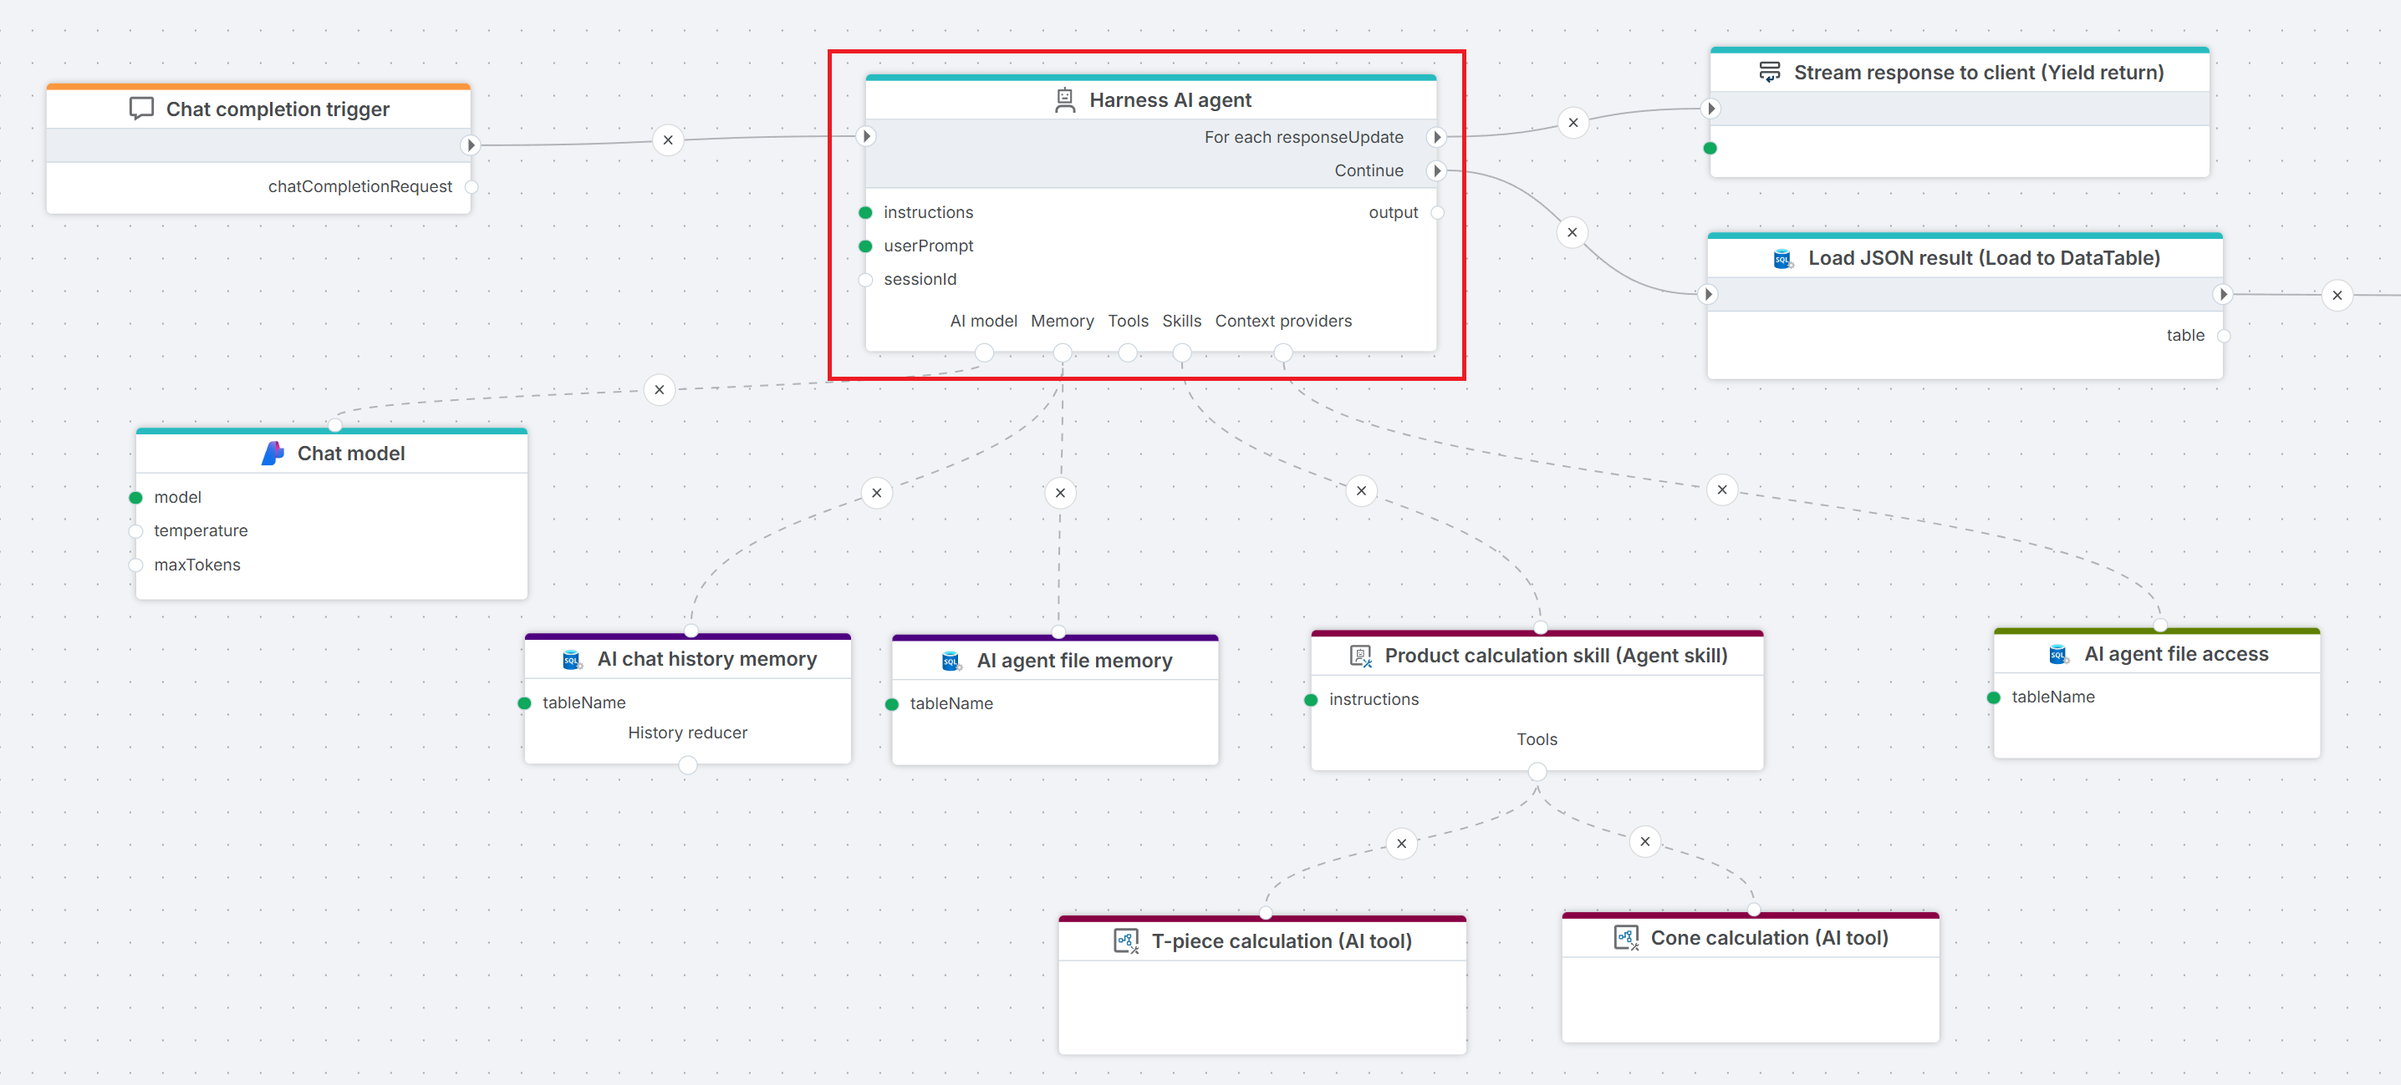
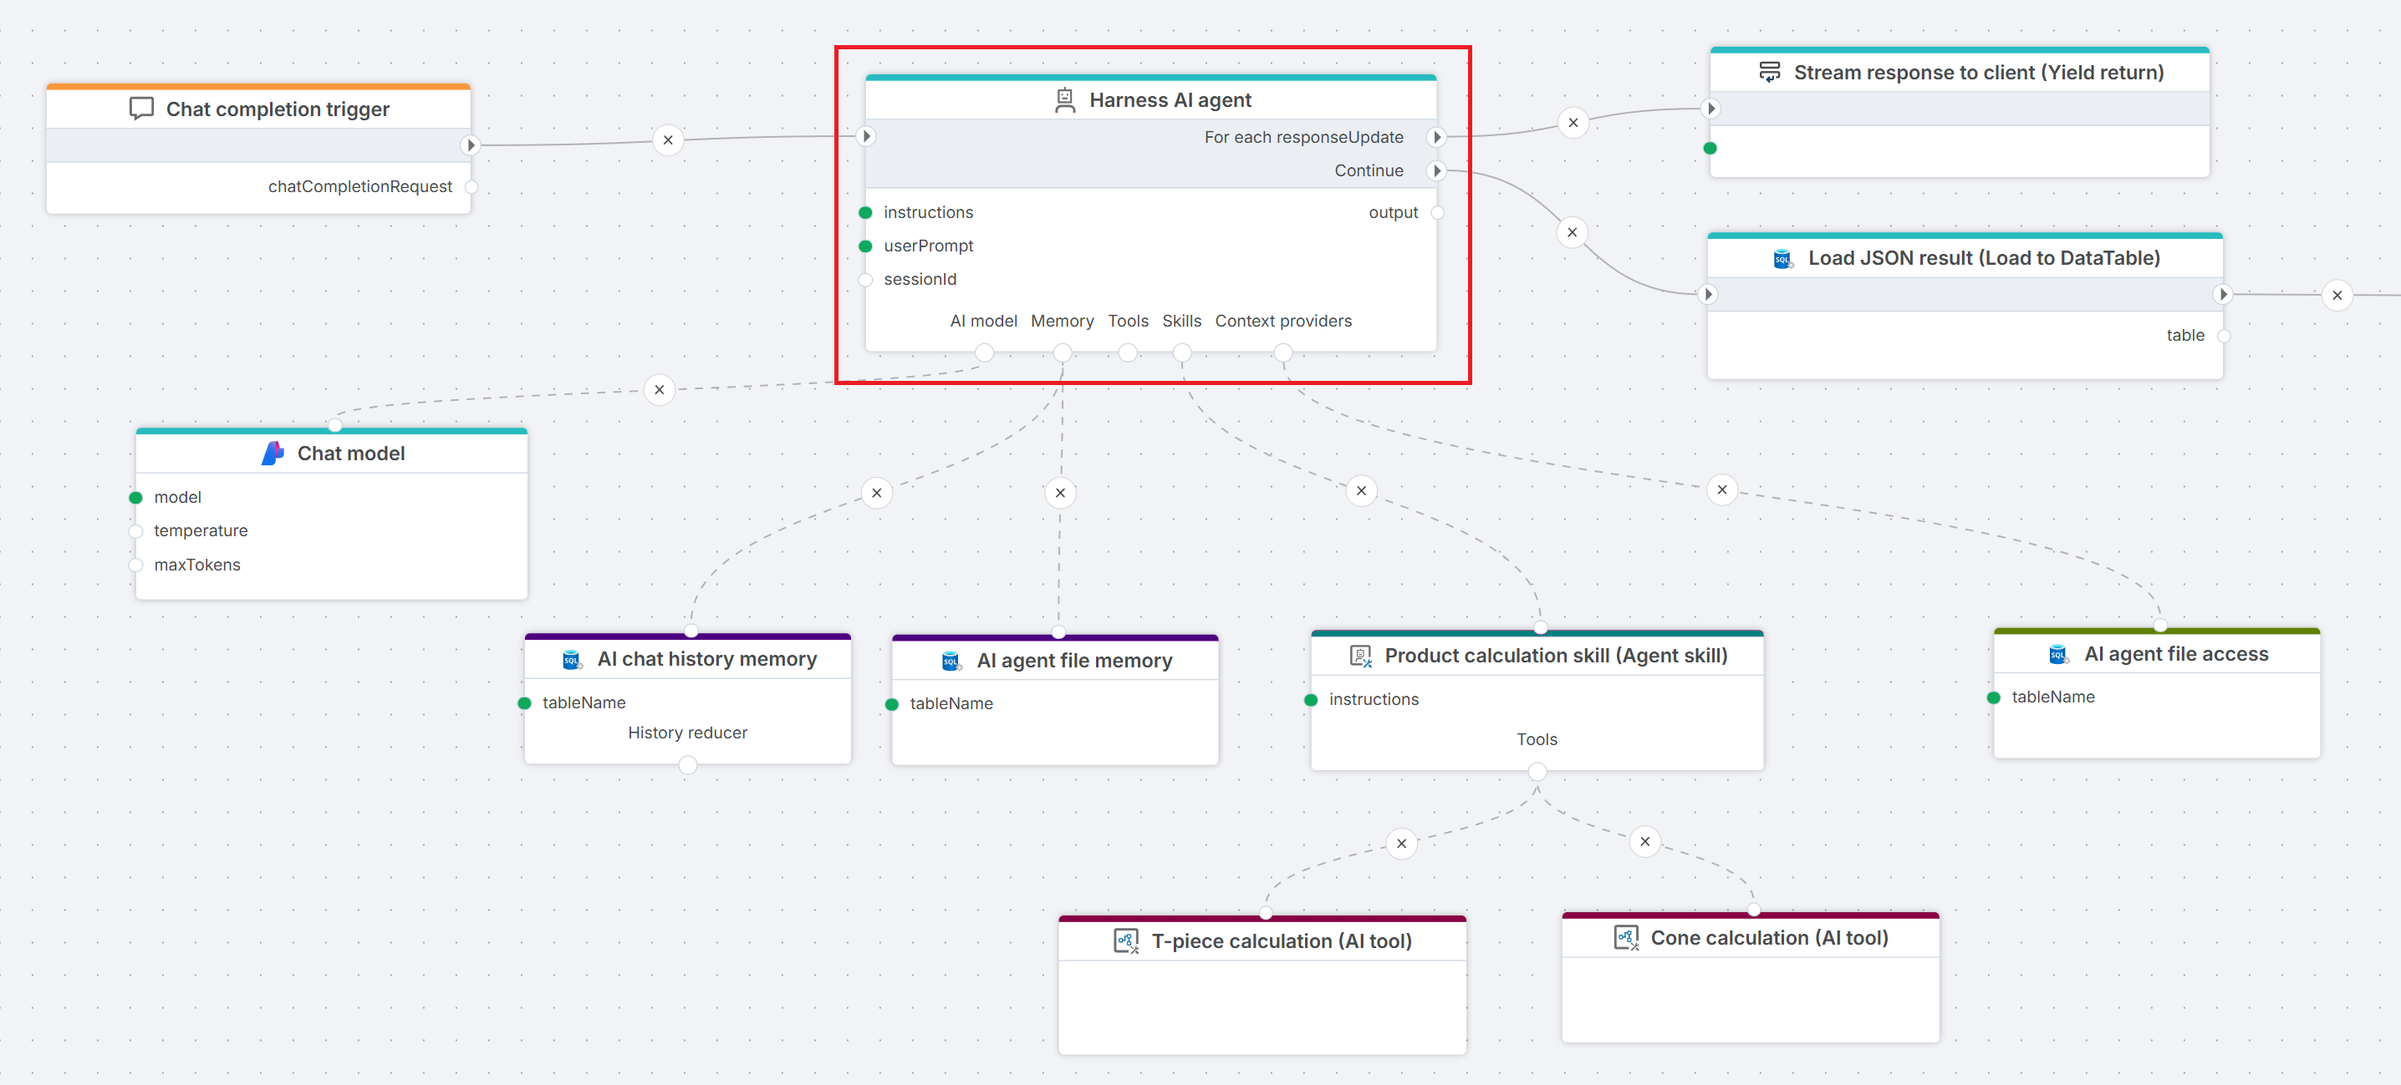
docs completed for harness agent

Changed region(s): [[0.3409, 0.0308, 0.6198, 0.3695], [0.5578, 0.5543, 0.7127, 0.5851]]

diff --git a/articles/flow/actions/agents/ai-agent-skill.md b/articles/flow/actions/agents/ai-agent-skill.md
@@ -1,5 +1,168 @@
 # AI agent skill
 
-Specifies an AI agent skill that teaches AI agents (like the  [Harness AI agent](../agents/harness-ai-agent.md)) specialized knowledge and workflows.
+Defines an AI agent skill that teaches AI agents (like the [Harness AI agent](../agents/harness-ai-agent.md)) specialized knowledge and workflows — typically domain-specific processes and rules not generally known to AI models.
 
 ![img](/images/flow/ai-agent-skill.png)
+
+<br/>
+
+## Properties
+| Name                         | Required | Description                                                                 |
+|------------------------------|----------|-----------------------------------------------------------------------------|
+| Title                        | No | A descriptive title for the action. This value is not used by the system and serves only as a user-defined label to make the action easier to identify.  |
+| [Skill name (frontmatter)](#skill-name-and-description-frontmatter)     | Yes | The name of the skill that will be presented to the AI model and used to determine whether the skill is loaded into context.  |
+| [Skill description (frontmatter)](#skill-name-and-description-frontmatter) | Yes | A short description of the skill that will be presented to the AI model and used to determine whether the skill is loaded into context. |
+| [Instructions](#instructions) | Yes | The instructions of the skill, which is the guidance the AI model follows once it has decided the skill is relevant. |
+| [Scripts](#scripts)          | No  | The script provided by this skill. The scripts are only loaded into context if the AI model decides to use the skill based on the frontmatter `Skill name` and `Skill description`.  |
+| [Resources](#resources)      | No  | Reference material bundled with the skill and loaded into context on demand. Resources are only read when the AI model determines they are needed for the current step. |
+| Disabled                     | No | Disables the tool so it cannot be invoked by the AI agent.                 |
+| Description                  | No | A developer description of the action. This value is not used by the system and serves only as a user-defined label to make the action easier to understand. |
+
+<br/>
+
+## Skill name and description (frontmatter)
+
+The skill name and description are the only parts of a skill that the AI model always reads. Everything else — instructions, scripts, and resources — is only loaded into context if the model decides the skill is relevant to the current task. This makes the name and description the critical routing signal: they tell the model what the skill does and when to apply it.
+
+**Skill name**
+
+The name should identify what the skill covers, stated plainly. It will appear to the model exactly as written, so prefer clear noun phrases over internal codes or abbreviations. A good name answers "what is this skill for?" in a few words.
+
+| Good | Avoid |
+|------|-------|
+| `invoice-processing` | `inv-proc-v2` |
+| `customer-churn-analysis` | `Skill-4` |
+| `budget-variance-reporting` | `BVR-helper` |
+
+**Skill description**
+
+The description should describe the situations and tasks the skill is meant to handle — specific enough that the model activates it at the right moment, but not so narrow that it misses valid uses. Write it as a single sentence or short paragraph that a colleague unfamiliar with the skill could read and immediately understand when to reach for it.
+
+A good description answers:
+- What does this skill help accomplish?
+- What kind of input or context triggers it?
+- What domain or system does it belong to?
+
+**Example**
+
+| Field | Value |
+|-------|-------|
+| Skill name | `invoice-processing` |
+| Skill description | Guides the agent through creating, validating, and submitting invoices in the ERP system, including status transitions, required fields, and approval routing rules. |
+
+<br/>
+
+## Instructions
+
+Instructions are the operational content of a skill — the guidance the AI model follows once it has decided the skill is relevant. Unlike the (frontmatter) name and description, instructions are only loaded into the model's context when the skill is activated, so they can be as detailed as the task requires without affecting unrelated runs.
+
+Think of instructions as a briefing: they should tell the model exactly what to do, in what order, and under what conditions — written as if for a capable assistant who knows nothing about your specific business processes.
+
+**What good instructions include**
+
+- A clear statement of the skill's goal or responsibility
+- Step-by-step guidance for the main workflow, including branching logic for different cases
+- Explicit rules, constraints, or policies the model must respect (validation rules, approval thresholds, required fields)
+- When and how to use any attached [scripts](#scripts) or [resources](#resources) — by name, and for what purpose
+- What the model should return or do when the task is complete
+
+**Tips**
+
+- Write in imperative sentences: "Fetch the customer record", "Validate that the amount does not exceed the budget limit."
+- Be explicit about edge cases and error conditions rather than assuming the model will infer them.
+- If the skill has scripts or resources, reference them by name in the instructions so the model knows they exist and when to reach for them.
+- Avoid vague phrases like "handle appropriately" — specify what appropriate means in your context.
+
+**Example**
+
+```txt
+You are processing a new invoice submission. Follow these steps:
+
+1. Extract the vendor name, invoice number, amount, and due date from the user's input.
+2. Use the `validate-invoice` script to check that all required fields are present and that the amount does not exceed the vendor's approved credit limit.
+3. If validation fails, list the specific errors and ask the user to correct them before proceeding.
+4. If validation passes, use the `submit-invoice` script to create the invoice record in the ERP system.
+5. Confirm the submission to the user and include the generated invoice ID.
+
+Refer to the `invoice-status-codes` resource if you need to explain or validate a status transition.
+```
+
+<br/>
+
+## Scripts
+A skill script is an executable function the AI model can invoke while carrying out a skill's instructions. Each script has a name, a description, and defined input parameters — the model reads these to decide whether calling the script will help complete the current step.
+
+Scripts are only loaded into context when the model chooses to activate the skill, so they do not consume tokens in unrelated runs. They are suited for actions the model needs to perform rather than just reference: fetching live data, transforming input, writing output, or triggering external systems. The model calls a script by name, passes the required arguments, and uses the returned result to continue reasoning.
+
+To add scripts to the skill, attach one or more [Flow AI tool](../ai/flow-ai-tool.md) nodes to the `Scripts` port, and select the Flows you want to use as scripts. Note that you can only select flows with the [Flow AI tool trigger](../../triggers/ai/flow-ai-tool-trigger.md).
+Include guidance in the skill's instructions about how and when the agent should use each script.
+
+![img](/images/flow/ai-skill-scripts.png)
+
+<br/>
+
+## Resources
+A skill resource is a named piece of reference content — such as a lookup table, a style guide, or a data schema — bundled with the skill but kept out of the model's active context until needed. When executing a skill's instructions, the model can request a resource by name if it determines the content is relevant to the current step.
+
+This on-demand loading keeps the context window lean: resources that are never needed during a given run are never loaded. Resources are ideal for supplementary material that only some invocations require — reference content the model should be able to look up, but that would waste tokens if always present.
+
+**Example**
+
+| Field       | Value |
+|-------------|-------|
+| Name        | `invoice-status-codes` |
+| Description | Lookup table mapping internal invoice status codes to their human-readable labels and allowed transitions. |
+| Value       | See below |
+
+```
+| Code | Label      | Allowed next states     |
+|------|------------|-------------------------|
+| DR   | Draft      | SB                      |
+| SB   | Submitted  | AP, RJ                  |
+| AP   | Approved   | PD                      |
+| RJ   | Rejected   | DR                      |
+| PD   | Paid       | (none)                  |
+```
+
+The model only loads this resource when a skill instruction references it — for example, if the skill instructs the agent to "validate that the requested status transition is allowed, using the `invoice-status-codes` resource." Runs that never touch invoices never pay the token cost.
+
+<br/>
+
+## How a skill is used by an agent
+
+The diagram below shows how an AI agent interacts with a skill at runtime — what is always read, what is loaded on demand, and when scripts are called. The progressive loading of instructions, resources, and scripts is what makes skills a key mechanism for reducing token usage — and cost — for AI agents.
+
+```mermaid
+flowchart TD
+    A([Agent receives task]) --> B
+
+    subgraph always["Always in context"]
+        B["Read skill frontmatter<br/>(name + description)"]
+    end
+
+    B --> C{Skill relevant<br/>to this task?}
+    C -- No --> D([Skill ignored<br/>No tokens consumed])
+
+    C -- Yes --> E
+
+    subgraph onactivation["Loaded on skill activation"]
+        E[Load Instructions]
+    end
+
+    E --> F([Follow instructions])
+
+    F --> G{Reference material<br/>needed?}
+    G -- Yes --> H
+
+    subgraph ondemand["Loaded on demand"]
+        H[Load Resource by name]
+    end
+
+    H --> F
+
+    F --> I{Action needed?}
+    I -- Yes --> J([Execute Script])
+    J --> K[Use result] --> F
+
+    I -- No --> L([Produce response])
+```

diff --git a/articles/flow/actions/agents/harness-ai-agent.md b/articles/flow/actions/agents/harness-ai-agent.md
@@ -1,5 +1,114 @@
 # Harness AI agent
 
-Defines an AI Agent that can perform long-running, complex, multi-step tasks using tools, skills and services such as file systems.
+Defines an AI Agent that can perform long-running, complex, multi-step tasks using tools, skills, and external services such as file systems and APIs.
 
 ![img](/images/flow/harness-ai-agent.png)
+
+<br/>
+
+## Properties
+
+| Name            | Required | Description                         |
+|-----------------|--------------|-------------------------------------|
+| Instructions    | Yes | The instruction given at the start of a conversation that sets the agent's behavior, tone, and goals. It defines the role the agent should play (e.g., teacher, assistant, coder), how it should respond (e.g., formally or casually), and optionally the preferred strategy for decision-making.  |
+| User prompt     | Yes | This is the actual task that the agent is given, for example "Summarize all Word documents in my OneDrive folder named 'Work', and send the summarization to my-email@corp.com."  |
+| Session ID      | No | A session ID is required if you want to enable memory, allowing for an ongoing conversation with the AI, rather than every interaction starting fresh.|
+| AI contents     | No | |
+| AI model      | Yes | The chat model accepts a set of instructions, reasons about _how_ to solve the task, and uses tools to achieve the final outcome. |
+| [Memory](#memory)          | No | Agent memory used to store and retrieve the conversation history with the agent, and to enable the agent to manage internal state (working memory). Allows for an ongoing conversation with the AI, rather than every interaction starting fresh. Note that memory requires a Session ID.  |
+| [Tools](#tools)           | No | One or more tools that the agent can use to perform the tasks identified by the chat model. Tools the agent can use includes: <br/> [Azure Blob Storage Agent Tool](../azure-blob-storage/agent-tool.md) <br/> [OneDrive Agent Tool](../onedrive/agent-tool.md) <br/> [Outlook Agent Tool](../microsoft-365-outlook/agent-tool.md) <br/> [Markdown Agent Tool](../markdown/agent-tool.md)<br/>[MCP client tool](../mcp/mcp-client-tool.md) <br/> [Flow AI tool](../ai/flow-ai-tool.md)  | 
+| [Skills](#skills)          | No   | One or more [AI agent skills](./ai-agent-skill.md) teaching the agent specialized knowledge and workflows. Skills are also recommended as a way to progressively load tools _on demand_ to reduce token usage and cost. |
+| Context providers | No | Services that provide additional context or on-demand capabilities to the AI agent. Use this property to enable virtual file system access for the agent, providing a way for the agent to read additional input data and write its result to files. |
+
+<br/>
+
+## Returns
+See [Output summary - final response](#output-summary---final-response)
+
+<br/>
+
+## Providing (input) data and additional context to the agent
+In addition to the `User prompt`, `AI contents`, `Tools` and `Skills`, you can also use the `Context providers` property to give the AI agent access to a virtual file system. Suppose you have a CSV file you want the agent to analyse, you can add the file to the file system manually (using a compatible Flow node) and then instruct the agent to read the file(s) as input.  
+
+Please refer to [Reading and writing data to the file access table](../sql-server/agent-file-access.md#manually-reading-and-writing-data-to-the-file-access-table) for a detailed explanation of how this can be done.
+
+
+<br/>
+
+## Agent output
+- [Retrieving the generated output of the agent](#retrieving-the-generated-output-of-the-agent)
+- [Output summary - final response](#output-summary---final-response)
+
+### Retrieving the generated output of the agent
+The `Harness AI agent` is not designed to return a _result object_ like a file or business object of the task. (With the right instructions, you _can_ do this, but if this is the goal, you should use the [Tools AI agent](./tools-ai-agent.md) instead).  
+
+By providing access to a virtual file system, you enable the agent to store its output as a file (for example JSON or CSV) so it can be retrieved by downstream nodes.   
+To enable file output, do the following:
+- Specify in the agent's `Instructions` that you want the output written to a file.
+- Attach a `file access` node like [AI agent file access for SQL Server](../sql-server/agent-file-access.md) to the `Context providers` property port.
+
+To tell the agent to output the result to file, its instructions may contain something like:
+```txt
+# Output
+- Save the result to a CSV file named variance_analysis.csv in the Outputs folder.
+- Ensure that the folder exists
+```
+
+To retrieve the output from a `Harness AI agent` in downstream nodes, simply use a node compatible with the `file access` system node used, for any SQL Server action for reading data if you've used [AI agent file access for SQL Server](../sql-server/agent-file-access.md) as a `Context provider`.
+
+**Example**  
+Retrieving the output of an AI agent from a SQL Server file access store.  
+```sql
+SELECT TOP 1 Content FROM my_agent_files WHERE Directory = '/root/Outputs' AND EntryName = 'variance_analysis.csv'
+```
+
+Please refer to [Reading and writing data to the file access table](../sql-server/agent-file-access.md#manually-reading-and-writing-data-to-the-file-access-table) for a detailed explanation of how this can be done.
+
+<br/>
+
+### Output summary - final response
+When the agent completes its job, it returns a summary object containing the conversation thread and token usage.  
+This can be used to review its reasoning and workflow. The token count is useful if you want to implement throttling or record token usage to enforce limits, and also while developing the agent to optimize token usage (creating instructions, selecting tools, etc.)
+```json
+{
+    "content": string,
+    "totalTokenCount": int,
+    "outputTokenCount": int,
+    "inputTokenCount": int,
+    "reasoningTokenCount": int
+}
+```
+
+<br/>
+
+## Memory
+The Harness AI agent supports two types of memory;
+- Conversation history memory (chat history) with the user which enables an ongoing conversation
+- Internal working memory (file memory) for storing and retrieving plans, notes, temporary files, todos, etc as it progresses towards its goal
+
+When building agents that solves complex, long running tasks while interacting with a user, you often need both types of memory.  
+To add memory to the agent, attach nodes such as the [AI chat history memory for SQL Server](../sql-server/agent-memory.md) and [AI agent file memory for SQL Server](../sql-server/agent-file-memory.md) to the `Memory` property port. The agent will decide on its own when and if to use them.
+
+![img](/images/flow/harness-agent-memory.png)
+
+<br/>
+
+## Tools
+[Tools](../ai/flow-ai-tool.md) extend the agent's capabilities by giving it access to external systems and services. Attach one or more tool nodes to the `Tools` property port to make them available to the agent.
+
+<br/>
+
+## Skills
+[Skills](./ai-agent-skill.md) teach AI agents specialized knowledge and workflows — typically things specific to your business that the model would not otherwise know.
+
+<br/>
+
+## Harness AI agent vs Tools AI agent
+The Harness AI agent described in this document and the [Tools AI agent](./tools-ai-agent.md) serve different purposes:
+- The Harness AI agent is designed to perform complex, long-running tasks and output its result (if any) to a backing store through a tool or context provider like the [AI agent file access for SQL Server](../sql-server/agent-file-access.md) node.
+- The [Tools AI agent](./tools-ai-agent.md) returns results directly from its output port as a strongly typed object. The `Harness AI agent` writes results to a file for retrieval by downstream nodes, but can produce multiple outputs during a session.
+- The [Tools AI agent](./tools-ai-agent.md) can use `Code mode` when invoking its tools.
+- The `Harness AI agent` can stream its progress back to the client, while the [Tools AI agent](./tools-ai-agent.md) cannot.
+- The [Tools AI agent](./tools-ai-agent.md) is best for smaller, concrete tasks for producing an output as part of a workflow, while the `Harness AI agent` is best for more complex, long-running tasks while interacting with a user.
+
+
